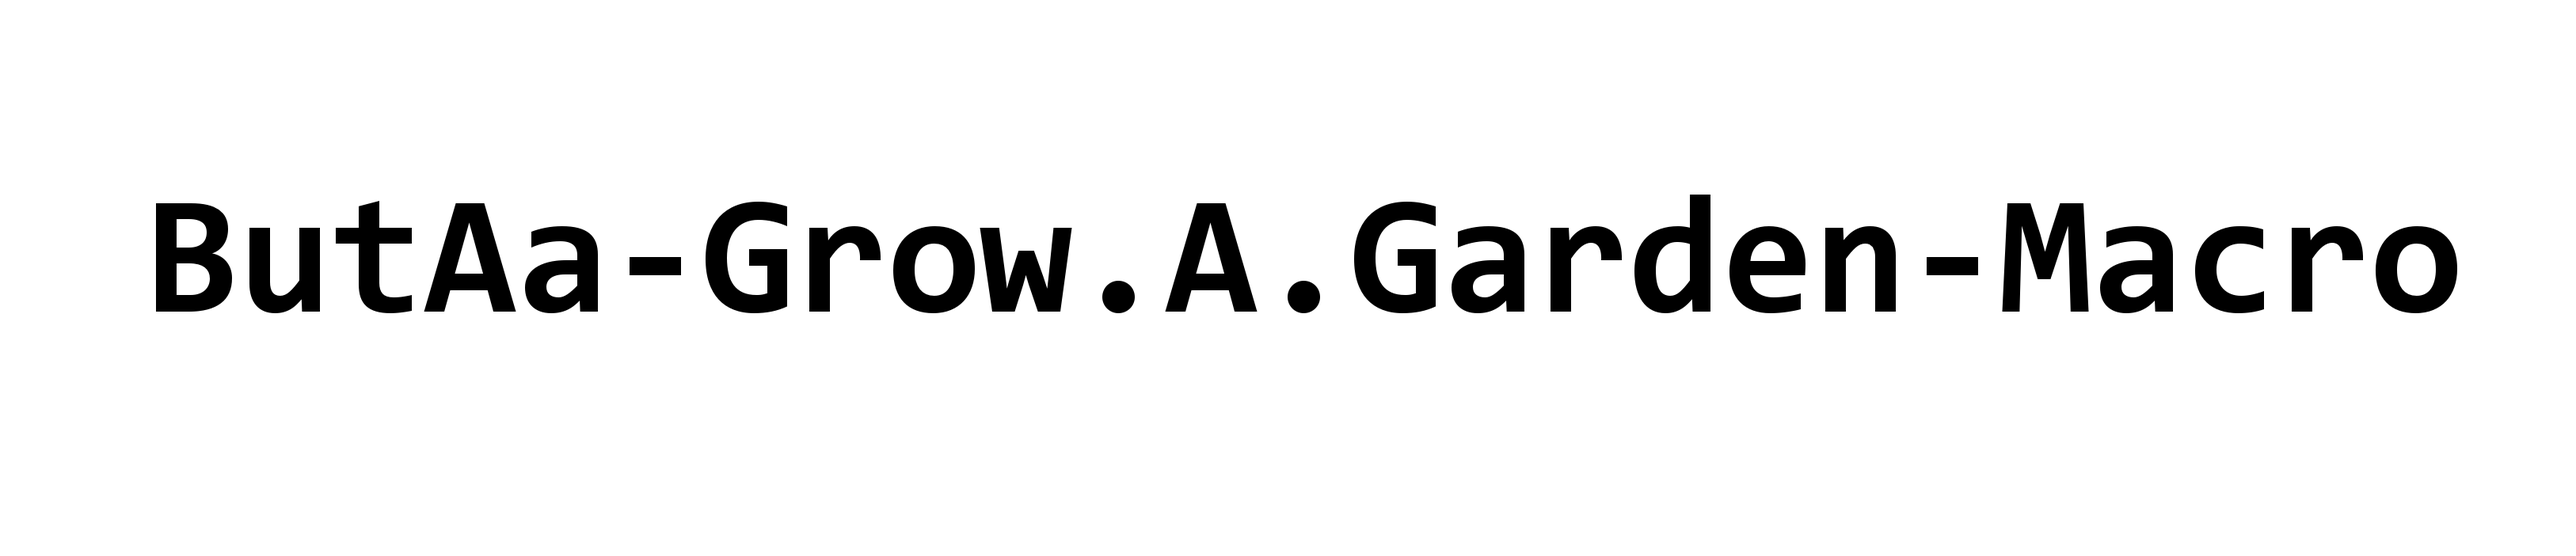
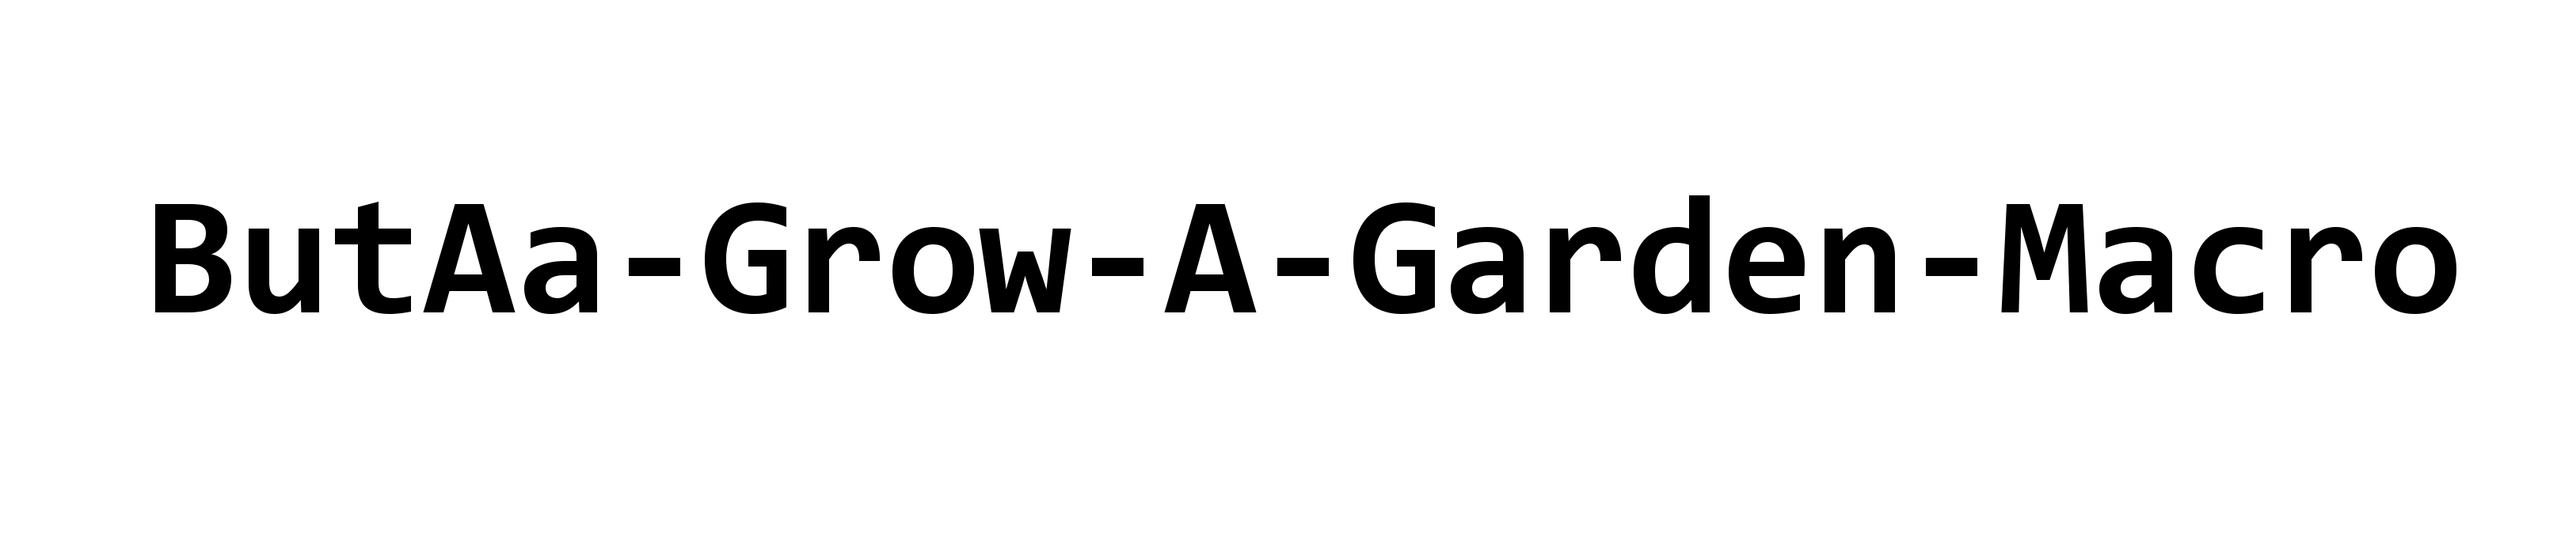
3.1 Out

Changed region(s): [[0.3726, 0.4481, 0.4657, 0.5676], [0.4968, 0.4481, 0.5278, 0.5676], [0.7762, 0.4182, 0.8073, 0.4481]]

diff --git a/README.md b/README.md
@@ -1,14 +1,14 @@
 <p align="center">
-  <img src="https://raw.githubusercontent.com/K-M19/ButAa-Grow.A.Garden-Macro/refs/heads/main/IMG/B-Theme.png#gh-dark-mode-only" width="420">
-  <img src="https://raw.githubusercontent.com/K-M19/ButAa-Grow.A.Garden-Macro/refs/heads/main/IMG/W-Theme.png#gh-light-mode-only" width="420">
+  <img src="https://raw.githubusercontent.com/K-M19/ButAa-Grow-A-Garden-Macro/refs/heads/main/IMG/B-Theme.png#gh-dark-mode-only" width="420">
+  <img src="https://raw.githubusercontent.com/K-M19/ButAa-Grow-A-Garden-Macro/refs/heads/main/IMG/W-Theme.png#gh-light-mode-only" width="420">
 </p>
 
 <div align="center">
-  <a href="https://github.com/K-M19/ButAa-Grow.A.Garden-Macro/blob/main/LICENSE.md">
-    <img src="https://img.shields.io/github/license/K-M19/ButAa-Grow.A.Garden-Macro" alt="License">
+  <a href="https://github.com/K-M19/ButAa-Grow-A-Garden-Macro/blob/main/LICENSE.md">
+    <img src="https://img.shields.io/github/license/K-M19/ButAa-Grow-A-Garden-Macro" alt="License">
   </a>
-  <a href="https://github.com/K-M19/ButAa-Grow.A.Garden-Macro/releases/latest">
-    <img src="https://img.shields.io/github/v/release/K-M19/ButAa-Grow.A.Garden-Macro" alt="Latest Version">
+  <a href="https://github.com/K-M19/ButAa-Grow-A-Garden-Macro/releases/latest">
+    <img src="https://img.shields.io/github/v/release/K-M19/ButAa-Grow-A-Garden-Macro" alt="Latest Version">
   </a>
 </div>
 
@@ -50,13 +50,13 @@
 
 ## 📦 Download
 
-**📜 Please read the [license and terms](https://github.com/K-M19/ButAa-Grow.A.Garden-Macro/blob/main/LICENSE.md) before downloading. By using this software, you agree to them.**
+**📜 Please read the [license and terms](https://github.com/K-M19/ButAa-Grow-A-Garden-Macro/blob/main/LICENSE.md) before downloading. By using this software, you agree to them.**
 
-- 🔗 [Download V3.0.P1](https://github.com/K-M19/ButAa-Grow.A.Garden-Macro/releases/download/V3.0.P1/ButAa-Grow.A.Garden-Macro.V.3.0.P1.zip)
-- 📝 [Changelog](https://github.com/K-M19/ButAa-Grow.A.Garden-Macro/blob/main/Update.md)
-- ❓ [Q&A](https://github.com/K-M19/ButAa-Grow.A.Garden-Macro/blob/main/Q&A.md)
-- 🛡 [VirusTotal Report](https://www.virustotal.com/gui/file/a7f456280662a49d446add3ace646e54e7ddb29ee0097273394b07b9a61836a4)
-- 🛡 [Neiki.Dev Report](https://tip.neiki.dev/file/a7f456280662a49d446add3ace646e54e7ddb29ee0097273394b07b9a61836a4)
+- 🔗 [Download V3.1](https://github.com/K-M19/ButAa-Grow-A-Garden-Macro/releases/download/V3.1/ButAa-Grow-A-Garden-Macro.V.3.1.7z)
+- 📝 [Changelog](https://github.com/K-M19/ButAa-Grow-A-Garden-Macro/blob/main/Update.md)
+- ❓ [Q&A](https://github.com/K-M19/ButAa-Grow-A-Garden-Macro/blob/main/Q&A.md)
+- 🛡 [VirusTotal Report](https://www.virustotal.com/gui/file/8b19cc095f8fcfe59e668f27329242165ff98447a3183d8d675c98b59684b1c7)
+- 🛡 [Neiki.Dev Report](https://tip.neiki.dev/file/8b19cc095f8fcfe59e668f27329242165ff98447a3183d8d675c98b59684b1c7)
 ## 🎥 Tutorial
 
 - 📺 [Watch Video](https://youtu.be/Q77zyCgRnCg)
@@ -84,22 +84,20 @@
 | Ctrl+F3 | Test Seeds Shop    |
 | Ctrl+F4 | Test Gear Shop     |
 | Ctrl+F5 | Test Egg Shop      |
-| Ctrl+F6 | Test Moon Shop     |
+| Ctrl+F6 | Test Event zone    |
 | Ctrl+F7 | Test Cosmetic Shop |
 
 ## ⚙ Control Settings
-
-- `WalkToMoonShopAllTimes=1` - Always go if navigation fails
 - `UsingRecallWrench=1` - Use Recall Wrench (slot 1)
 
 ## ⚙ Macro-Control Settings
 
-- `RetryMenu=` - Retry shop open if it fails
 - `ClickBuy=` - Set mouse click count
-- `WalktoGear=18600` - Time to reach Gear shop
-- `WalktoEgg=1800` - Time to reach Egg shop
-- `WalktoMoonShop=8500` - Time to reach Moon shop
-
+- `WalktoGear=16860` - Time to reach Gear shop
+- `WalktoCosmeticShop=750`- Time to reach Cosmetic Shop
+- `WalktoEgg=1630` - Time to reach Egg shop
+- `WalkToQueenBee=8170` - Time to reach Queen Bee
+  `WalkToQueenBeeUp=300` - Time to reach Up Queen Bee
 ## ⚙ Dev Settings
 
 - `debugMode=1` - Write `MacroDebugLog.txt`

diff --git a/Update.md b/Update.md
@@ -1,3 +1,18 @@
+## Update Log (V.3.1) - 🍯BIZZY BEES🐝
+### Removed
+- **AutoRejoin**: Removed due to lack of usefulness. It often caused errors on slower machines, such as those using HDDs or experiencing lag, and also increased false positives.
+### New Features
+- **New**: Time to Bee Swarm
+- **New**: The macro no longer requires you to open Roblox beforehand. Instead, it will now prompt you to open Roblox before proceeding.
+- **New**: I should’ve done this a long time ago—now every time you start the macro, it runs immediately without waiting for real-time delays.
+- **New**: Debug Hot Keys have been changed from F1 > F7 to Ctrl+F1 > Ctrl+F7.
+- **New**: Config files have been separated to make management and customization easier.
+### Bug Fixes
+- **Fixed**: Movement bug caused by periodically changing map sizes.
+---
+> 🙏 **Thanks @k.btyep** for Coding support for this update!
+> 🙏 **Thanks @Ryan✈** for bug reports!
+
 ## Update Log (V.3.0.P1) - 🛠 FixPack 🛠
 ### Bug Fixes
 - **Fixed**: Reworked the new walking mechanism after the game was updated and the map size changed for the fourth time.
@@ -10,9 +25,7 @@
   - `PrivateServerLink=` is where you insert your Private Server link. Open the link in your browser first, then copy and paste it here.  
     **Example**:`https://www.roblox.com/games/126884695634066/Grow-a-Garden?privateServerLinkCode=452676255653203881808469`
   - `webhookURL=` is where you'll receive notifications if AutoRejoin is successful or not.
-
 ---
-
 > 🙏 **Thanks @k.btyep** for Coding support for this update!
 
 ## Update Log (V.2.9) - ⛲ FARM COSMETICS 🛠
